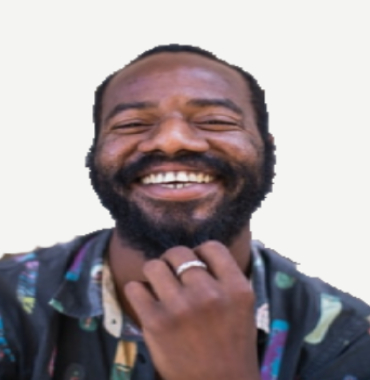
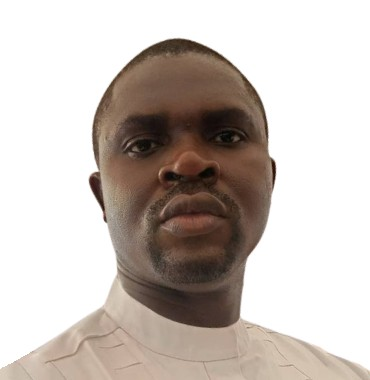
feature: add more members to team page

diff --git a/pages/about-us.js b/pages/about-us.js
@@ -80,14 +80,13 @@ const CEOSpeech = () => {
           <div className="col-md-8 col-lg-8">
             <p className="mt-md-n4 mb-5">
               Our projects strategically aim at providing energy efficient
-              luxury condos that are well within your grasp, thus presenting you
+              premium homes that are well within your grasp, thus presenting you
               with a rare combination of quality and affordability in a single
               package.
               <br /> <br />
-              Our unique edifices do not simply cater for the affordability on
-              procurement but also ensure that the living experience of the
-              occupants is delightfully enhanced at minimum running and
-              maintenance cost&nbsp;
+              You will enjoy a distinctive home that not only saves on
+              procurement costs but also ensures minimal running and maintenance
+              expenses.&nbsp;
               {isMobile && showReadMore ? (
                 <>
                   ...
@@ -101,19 +100,19 @@ const CEOSpeech = () => {
                 </>
               ) : (
                 <>
-                  and with architectural designs that respond imaginatively to
-                  the cultural climatic and environmental conditions. In
-                  reality, we do not just sell homes, we secure your future.
+                  With architectural designs that creatively adapt to cultural,
+                  climatic, and environmental conditions, your new home will not
+                  only meet but exceed your expectations.
                   <br /> <br />
-                  Over the next five years, we intend to progressively expand
-                  our portfolio nationwide and provide similar housing solutions
-                  suitable for strategically selected locations like Ibeju
-                  Lekki, Porthharcourt, Uyo, Abuja and Kaduna.
+                  Over the next five years, you can look forward to more housing
+                  solutions in strategically selected locations such as Ibeju
+                  Lekki, Port Harcourt, Uyo, Abuja, and Kaduna, expanding your
+                  options across the nation.
                   <br /> <br />
-                  Subscribe with us today and proceed to select from our vast
-                  range of Floor tiles, Wall tiles, Paint colors, and other
-                  finishes to customize your home into the haven that suits your
-                  style.
+                  Subscribe today and take the first step in customizing your
+                  home with our extensive range of floor tiles, wall tiles,
+                  paint colors, and other finishes, transforming your space into
+                  a haven that reflects your unique style.
                 </>
               )}
             </p>

diff --git a/data/team.js b/data/team.js
@@ -15,15 +15,27 @@ export const team = [
   },
   {
     name: 'Julius Airhia',
-    image: 'blank.png',
-    title: 'Engineer',
+    image: 'julius.jpg',
+    title: 'Engineer (COREN)',
     description:
       'With over 10 years experience in construction management in diverse capacities for many sizes of construction feats and equipped with a B.Eng in Civil Engineering Julius is more than capable of delivering our projects in line with project requirements.',
+  },
+  {
+    name: 'Tosin Opawole',
+    image: 'tosin.jpg',
+    title: 'Engineer (COREN)',
+    description: '-',
   },
   {
     name: 'Oludare Odu',
     image: 'oludare.png',
     title: 'Engineer',
+    description: '-',
+  },
+  {
+    name: 'Oscar Nnenji',
+    image: 'oscar.jpg',
+    title: 'Architect',
     description: '-',
   },
   {

diff --git a/pages/terms-of-use.js b/pages/terms-of-use.js
@@ -84,7 +84,7 @@ const Content = () => (
       <h6 className="tou-header">2. About the Website</h6>
       <p>
         Blissville is a leading real estate brand in Africa. We offer
-        affordable, energy-efficient luxury condos that enhance your living
+        affordable, energy-efficient luxury homes that enhance your living
         experience. Our properties are strategically located near essential
         services and come with flexible payment plans. We ensure seamless
         ownership transfers and use natural elements to boost comfort.
